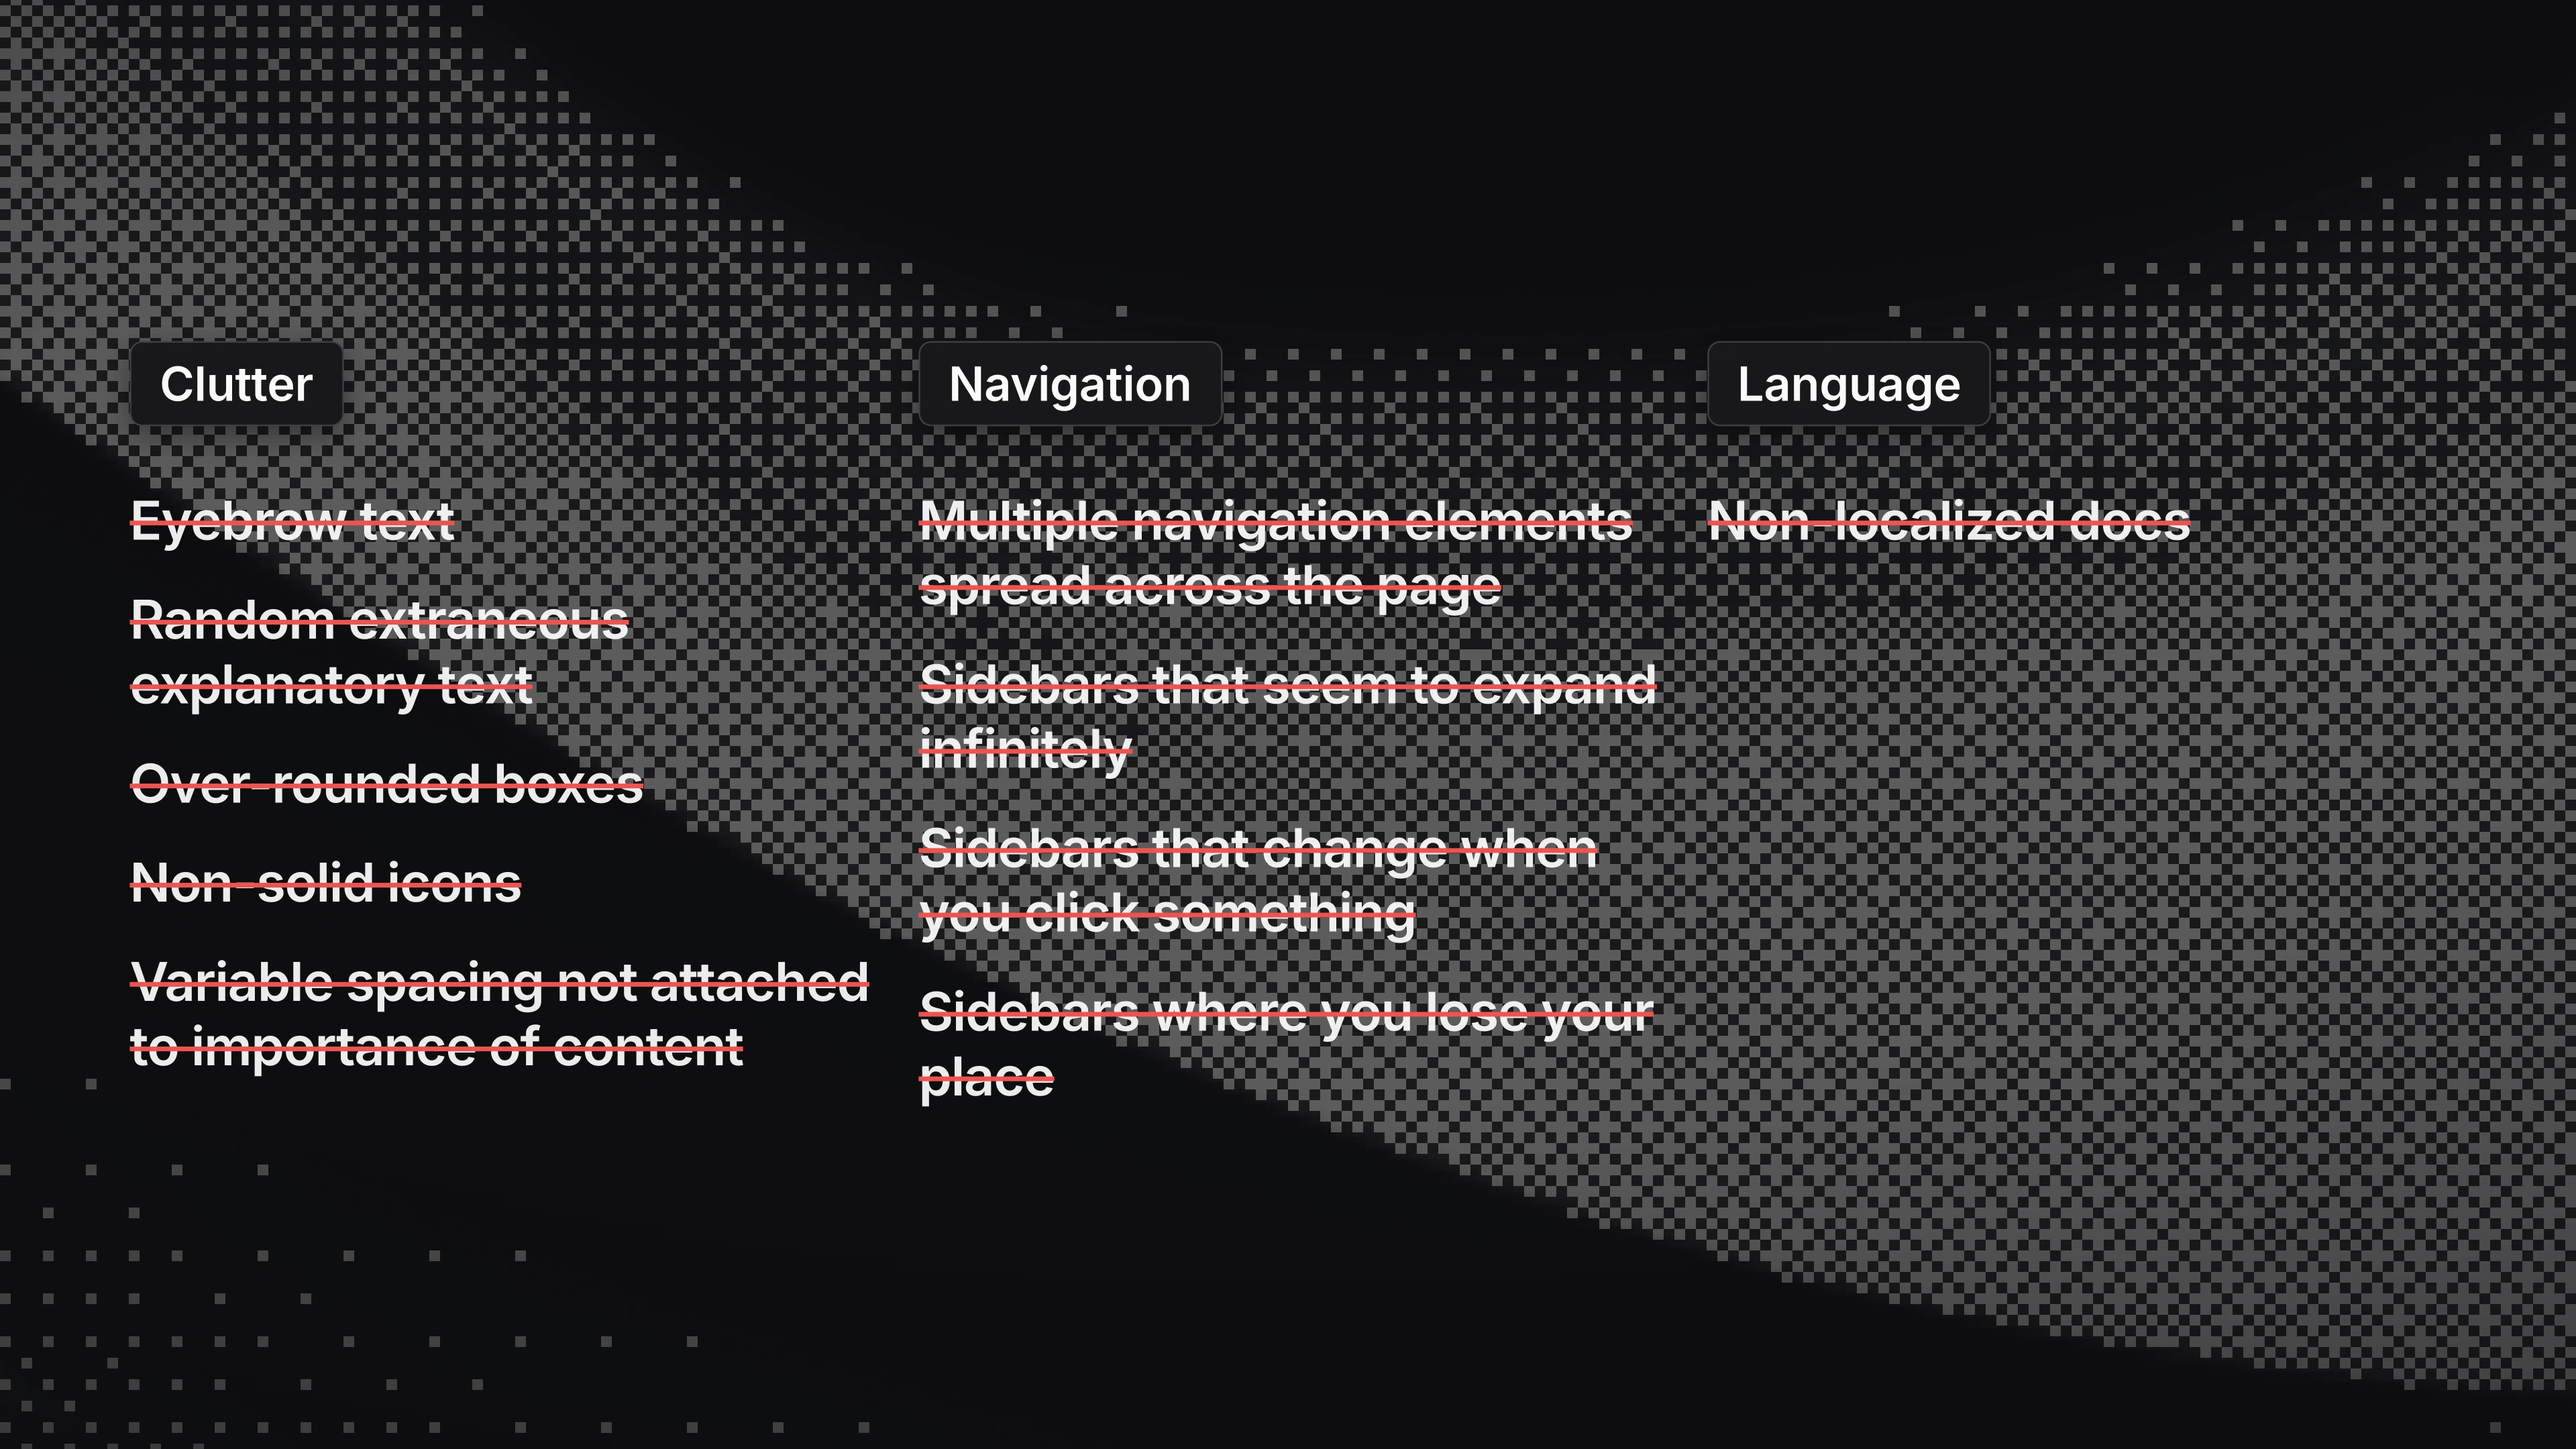
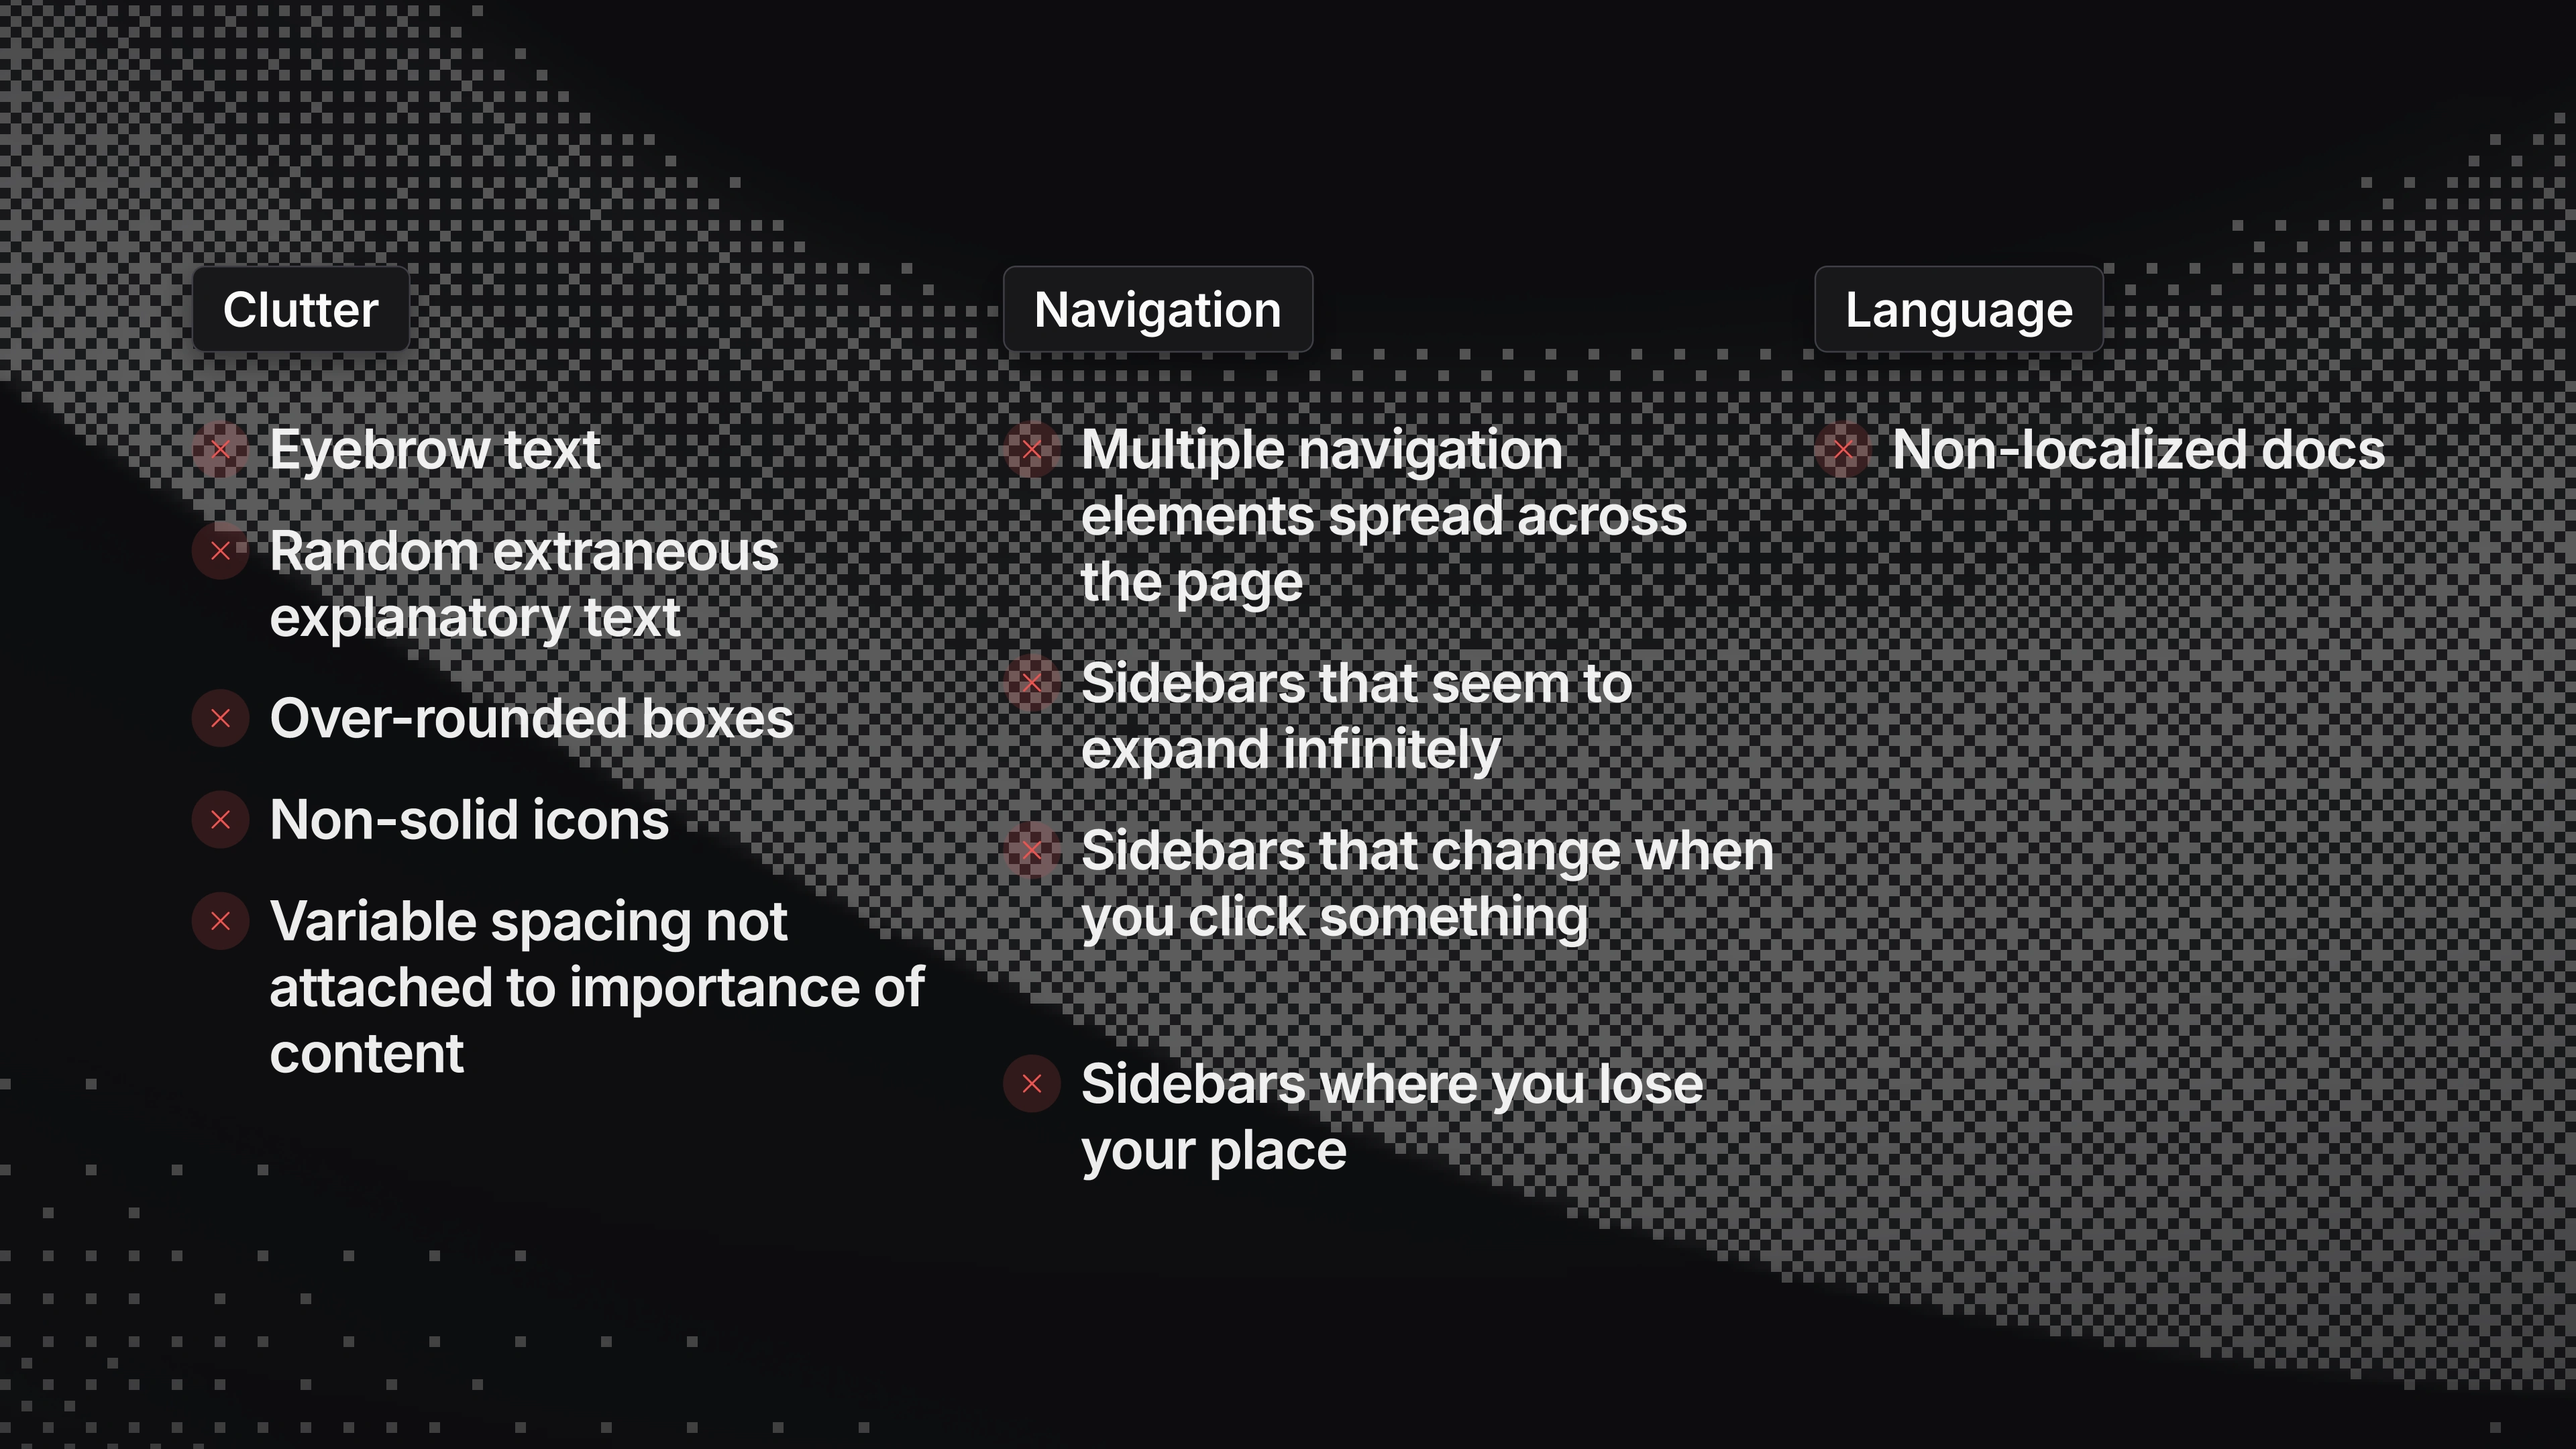
Poster with x marks, anatomy crops tied to their labels, tree root centred

Changed region(s): [[0.0312, 0.1861, 0.6875, 0.8065], [0.3438, 0.1861, 0.9375, 0.5273]]

diff --git a/graphics/build/gen-visuals.js b/graphics/build/gen-visuals.js
@@ -194,19 +194,21 @@ add('C1-nav-census', 'C', 'Navigation census', 'silk3', 'Every navigation or con
   return h;
 });
 
-add('C2-accordion-anatomy', 'C', 'Accordion anatomy', 'silk4', 'The new sidebar enlarged with a label for each part, and the two levels that live beyond it: the sections in the open switcher, the headings in the contents rail.', () => {
+add('C2-accordion-anatomy', 'C', 'Accordion anatomy', 'silk4', 'The new sidebar enlarged with a label for each part, and the two levels that live beyond it: the sections in the open switcher, tied to the switcher, and the headings in the contents rail, tied to the group heading.', () => {
   let h = ''; const s = 0.9, X = 120, Y = 45; const o = org(X, Y, { x: 0, y: 0 });
   h += crop('newIntro', N.sidebar, { x: X, y: Y, s });
   // each leader leaves its box at the box's edge; the trunks sit at two x positions so no two vertical runs
   // share a line (the active item's and the group heading's would otherwise overlap between y 303 and 323)
   const calls = [[N.switcher, 'Section switcher', 'squares-2x2', 430], [N.itemIntro, 'Active item', 'cursor-arrow-rays', 430], [N.groupFw, 'Group heading', 'bars-3', 400], [N.footerLinks, 'Footer links', 'link', 430], [N.prefs, 'Preferences', 'adjustments-horizontal', 400]];
-  calls.forEach(([r, k, ic, mx], i) => { const yy = Y + (r.y + r.h / 2) * s; const ty = 150 + i * 150; h += hl(o, s, r, { pad: 3, style: 'box-shadow:none' }); h += elbow(X + (r.x + r.w + 3) * s + 1, yy, 476, ty + 23, { mx, color: 'rgba(96,165,250,.7)' }); h += iconLabel(490, ty, ic, k); });
-  // beyond the sidebar: the sections the switcher opens onto, and the headings the contents rail lists
-  const sec = { x: 19, y: 71, w: 255, h: 480 }, sS = 0.62, SX = 1040, SY = 90;
+  calls.forEach(([r, , , mx], i) => { const yy = Y + (r.y + r.h / 2) * s; const ty = 150 + i * 150; h += hl(o, s, r, { pad: 3, style: 'box-shadow:none' }); h += elbow(X + (r.x + r.w + 3) * s + 1, yy, 476, ty + 23, { mx, color: 'rgba(96,165,250,.7)' }); });
+  // beyond the sidebar: the sections the switcher opens onto, and the headings the contents rail lists. Their leaders
+  // start under the labels (drawn last, so they cover the start) and read as one line through the label whatever its width
+  const sec = { x: 19, y: 71, w: 255, h: 480 }, sS = 0.62, SX = 1040, SY = 90, tocS = 0.9, TY = SY + PH(sec, sS) + 110;
+  h += elbow(476, 173, SX - 8, SY + 40, { mx: 960, color: 'rgba(96,165,250,.7)' });
+  h += elbow(476, 473, SX - 8, TY + PH(N.toc, tocS) / 2, { mx: 960, color: 'rgba(96,165,250,.7)' });
   h += tag('Sections', 'squares-2x2', SX, SY - 62); h += crop('dropdown', sec, { x: SX, y: SY, s: sS });
-  h += elbow(840, 173, SX - 8, SY + 40, { mx: 960, color: 'rgba(96,165,250,.7)' });
-  const tocS = 0.9, TY = SY + PH(sec, sS) + 110;
   h += tag('Headings', 'list-bullet', SX, TY - 62); h += crop('newIntro', N.toc, { x: SX, y: TY, s: tocS });
+  calls.forEach(([, k, ic], i) => { h += iconLabel(490, 150 + i * 150, ic, k); });
   return h;
 });
 add('C3-persistence-strip', 'C', 'Persistence strip', 'silk1', 'Three consecutive pages; the sidebar stays, only the active marker moves.', () => {
@@ -228,7 +230,7 @@ add('C4-sidebars-side-by-side', 'C', 'Sidebars side by side', 'silk2', 'The two 
 add('C5-one-tree', 'C', 'One tree', 'silk3', 'The sidebar drawn as the tree it is, mapped onto the real crop.', () => {
   let h = ''; const s = 0.84, X = 1200, Y = 72; h += crop('newIntro', N.sidebar, { x: X, y: Y, s }); const o = org(X, Y, { x: 0, y: 0 });
   const groups = [['Get Started', 3, { x: 19, y: 145, w: 254, h: 115 }], ['Frameworks', 11, { x: 19, y: 277, w: 254, h: 360 }], ['Platform', 4, { x: 19, y: 654, w: 254, h: 146 }], ['Integrations', 5, { x: 19, y: 817, w: 254, h: 80 }]];
-  const rootX = 150, rootY = 450; h += `<div class="txt" style="left:${px(rootX - 60)};top:${px(rootY - 25)}"><div class="badge" style="position:static;height:50px;padding:0 18px;font:600 26px 'Inter';border-color:var(--blue);color:var(--text)">${ico('book-open', 24)}&nbsp;Docs</div></div>`;
+  const rootX = 150, rootY = 407; /* centred on the four branch lines (212 to 602) so the stub meets the trunk at its middle */ h += `<div class="txt" style="left:${px(rootX - 60)};top:${px(rootY - 25)}"><div class="badge" style="position:static;height:50px;padding:0 18px;font:600 26px 'Inter';border-color:var(--blue);color:var(--text)">${ico('book-open', 24)}&nbsp;Docs</div></div>`;
   groups.forEach(([k, n, r], i) => { const gy = 200 + i * 130; const gx = 420; h += elbow(rootX + 60, rootY, gx - 4, gy + 12, { mx: 320, color: 'rgba(96,165,250,.7)', end: true }); h += label(gx, gy - 11, `${k}&nbsp;<span style="font:500 26px 'Geist Mono';color:var(--muted);letter-spacing:.02em">${n} pages</span>`); for (let j = 0; j < n; j++) h += `<div class="wire bar dim" style="left:${px(gx + 380 + (j % 6) * 22)};top:${px(gy + 4 + Math.floor(j / 6) * 22)};width:14px;height:14px;border-radius:3px;background:rgba(96,165,250,.35)"></div>`; h += hl(o, s, r, { pad: 3, style: 'box-shadow:none;border-width:2.5px' }); h += elbow(gx + 530, gy + 12, X + r.x * s - 6, Y + (r.y + r.h / 2) * s, { mx: 1100, color: 'rgba(96,165,250,.5)', end: true }); });
   return h;
 });
@@ -402,14 +404,13 @@ add('F4-bingo', 'F', 'The fix for each', 'silk3', 'The hit list as a 3×3 card w
     h += `<div style="position:absolute;left:${px(x)};top:${px(y)};width:${px(cw)};height:${px(ch)};border-radius:8px;background:rgba(9,9,11,.9);border:1px solid rgba(250,250,250,.14);display:flex;flex-direction:column;align-items:center;justify-content:center;gap:14px;padding:0 24px;text-align:center"><span style="font:500 28px/1.25 'Inter';color:rgba(250,250,250,.6);text-decoration:line-through;text-decoration-color:var(--red);text-decoration-thickness:2.5px">${bad}</span><span style="font:600 30px/1.2 'Inter';letter-spacing:-.01em;color:#fafafa">${good}</span></div>`; });
   return h;
 });
-add('F5-poster', 'F', 'Poster', 'silk5', 'The hit list regrouped into clutter, navigation and language, every item struck through in one weight; the group names are the set’s ordinary labels.', () => {
+add('F5-poster', 'F', 'Poster', 'silk5', 'The hit list regrouped into clutter, navigation and language, every item marked with the set’s red x; the group names are the set’s ordinary labels.', () => {
   let h = ''; const groups = [['Clutter', ['Eyebrow text', 'Random extraneous explanatory text', 'Over-rounded boxes', 'Non-solid icons', 'Variable spacing not attached to importance of content']], ['Navigation', ['Multiple navigation elements spread across the page', 'Sidebars that seem to expand infinitely', 'Sidebars that change when you click something', 'Sidebars where you lose your place']], ['Language', ['Non-localized docs']]];
-  const X0 = 64, CW = 470, G = 31, LINE = 41;
+  const X0 = 64, CW = 480, G = 24, LINE = 41, CHARS = 22; /* 34px Inter 600 fits about 22 characters in the 432px beside the mark */
   groups.forEach(([name, items], c) => { const x = X0 + c * (CW + G); h += tag(name, null, x, 96, 'dark'); let y = 190;
-    items.forEach((k) => { h += `<div class="txt" style="left:${px(x)};top:${px(y)};width:${px(CW)};white-space:normal;font:600 34px/1.2 'Inter';letter-spacing:-.02em;color:rgba(250,250,250,.94);text-decoration:line-through;text-decoration-color:var(--red);text-decoration-thickness:3px">${k}</div>`; y += (k.length > 27 ? 2 : 1) * LINE + 22; }); });
+    items.forEach((k) => { h += `<div class="txt" style="left:${px(x)};top:${px(y)};width:${px(CW)};display:flex;align-items:flex-start;gap:12px;white-space:normal;font:600 34px/1.2 'Inter';letter-spacing:-.02em;color:rgba(250,250,250,.94)"><span style="display:inline-grid;place-items:center;flex:none;width:36px;height:36px;margin-top:2px;border-radius:50%;background:rgba(240,82,79,.16);color:#f0524f">${ico('x-mark', 20)}</span><span>${k}</span></div>`; y += Math.ceil(k.length / CHARS) * LINE + 22; }); });
   return h;
 }, { wash: .25 });
-
 // =============== COVERS (isometric wire, dashed) ===============
 const R = { page:{x:0,y:0,w:1440,h:900}, sidebar:{x:0,y:0,w:290,h:900}, content:{x:310,y:60,w:746,h:840}, header:{x:1068,y:12,w:356,h:46}, headerLight:{x:1081,y:12,w:343,h:46} /* the light capture's star pill is 13px narrower */, toc:{x:1090,y:74,w:330,h:130}, footer:{x:11,y:706,w:270,h:138}, prefs:{x:11,y:847,w:270,h:45}, switcher:{x:19,y:71,w:254,h:54}, h1:{x:310,y:80,w:420,h:37}, sub:{x:310,y:129,w:746,h:24}, meta:{x:310,y:169,w:746,h:49}, cards:{x:310,y:400,w:746,h:417} };
 const SIDE_ITEMS = [168,198,229,300,330,361,392,422,453,483,514,544,575,605,677,707,738,768].map(y => ({ x: 31, y, w: 160, h: 31 }));
